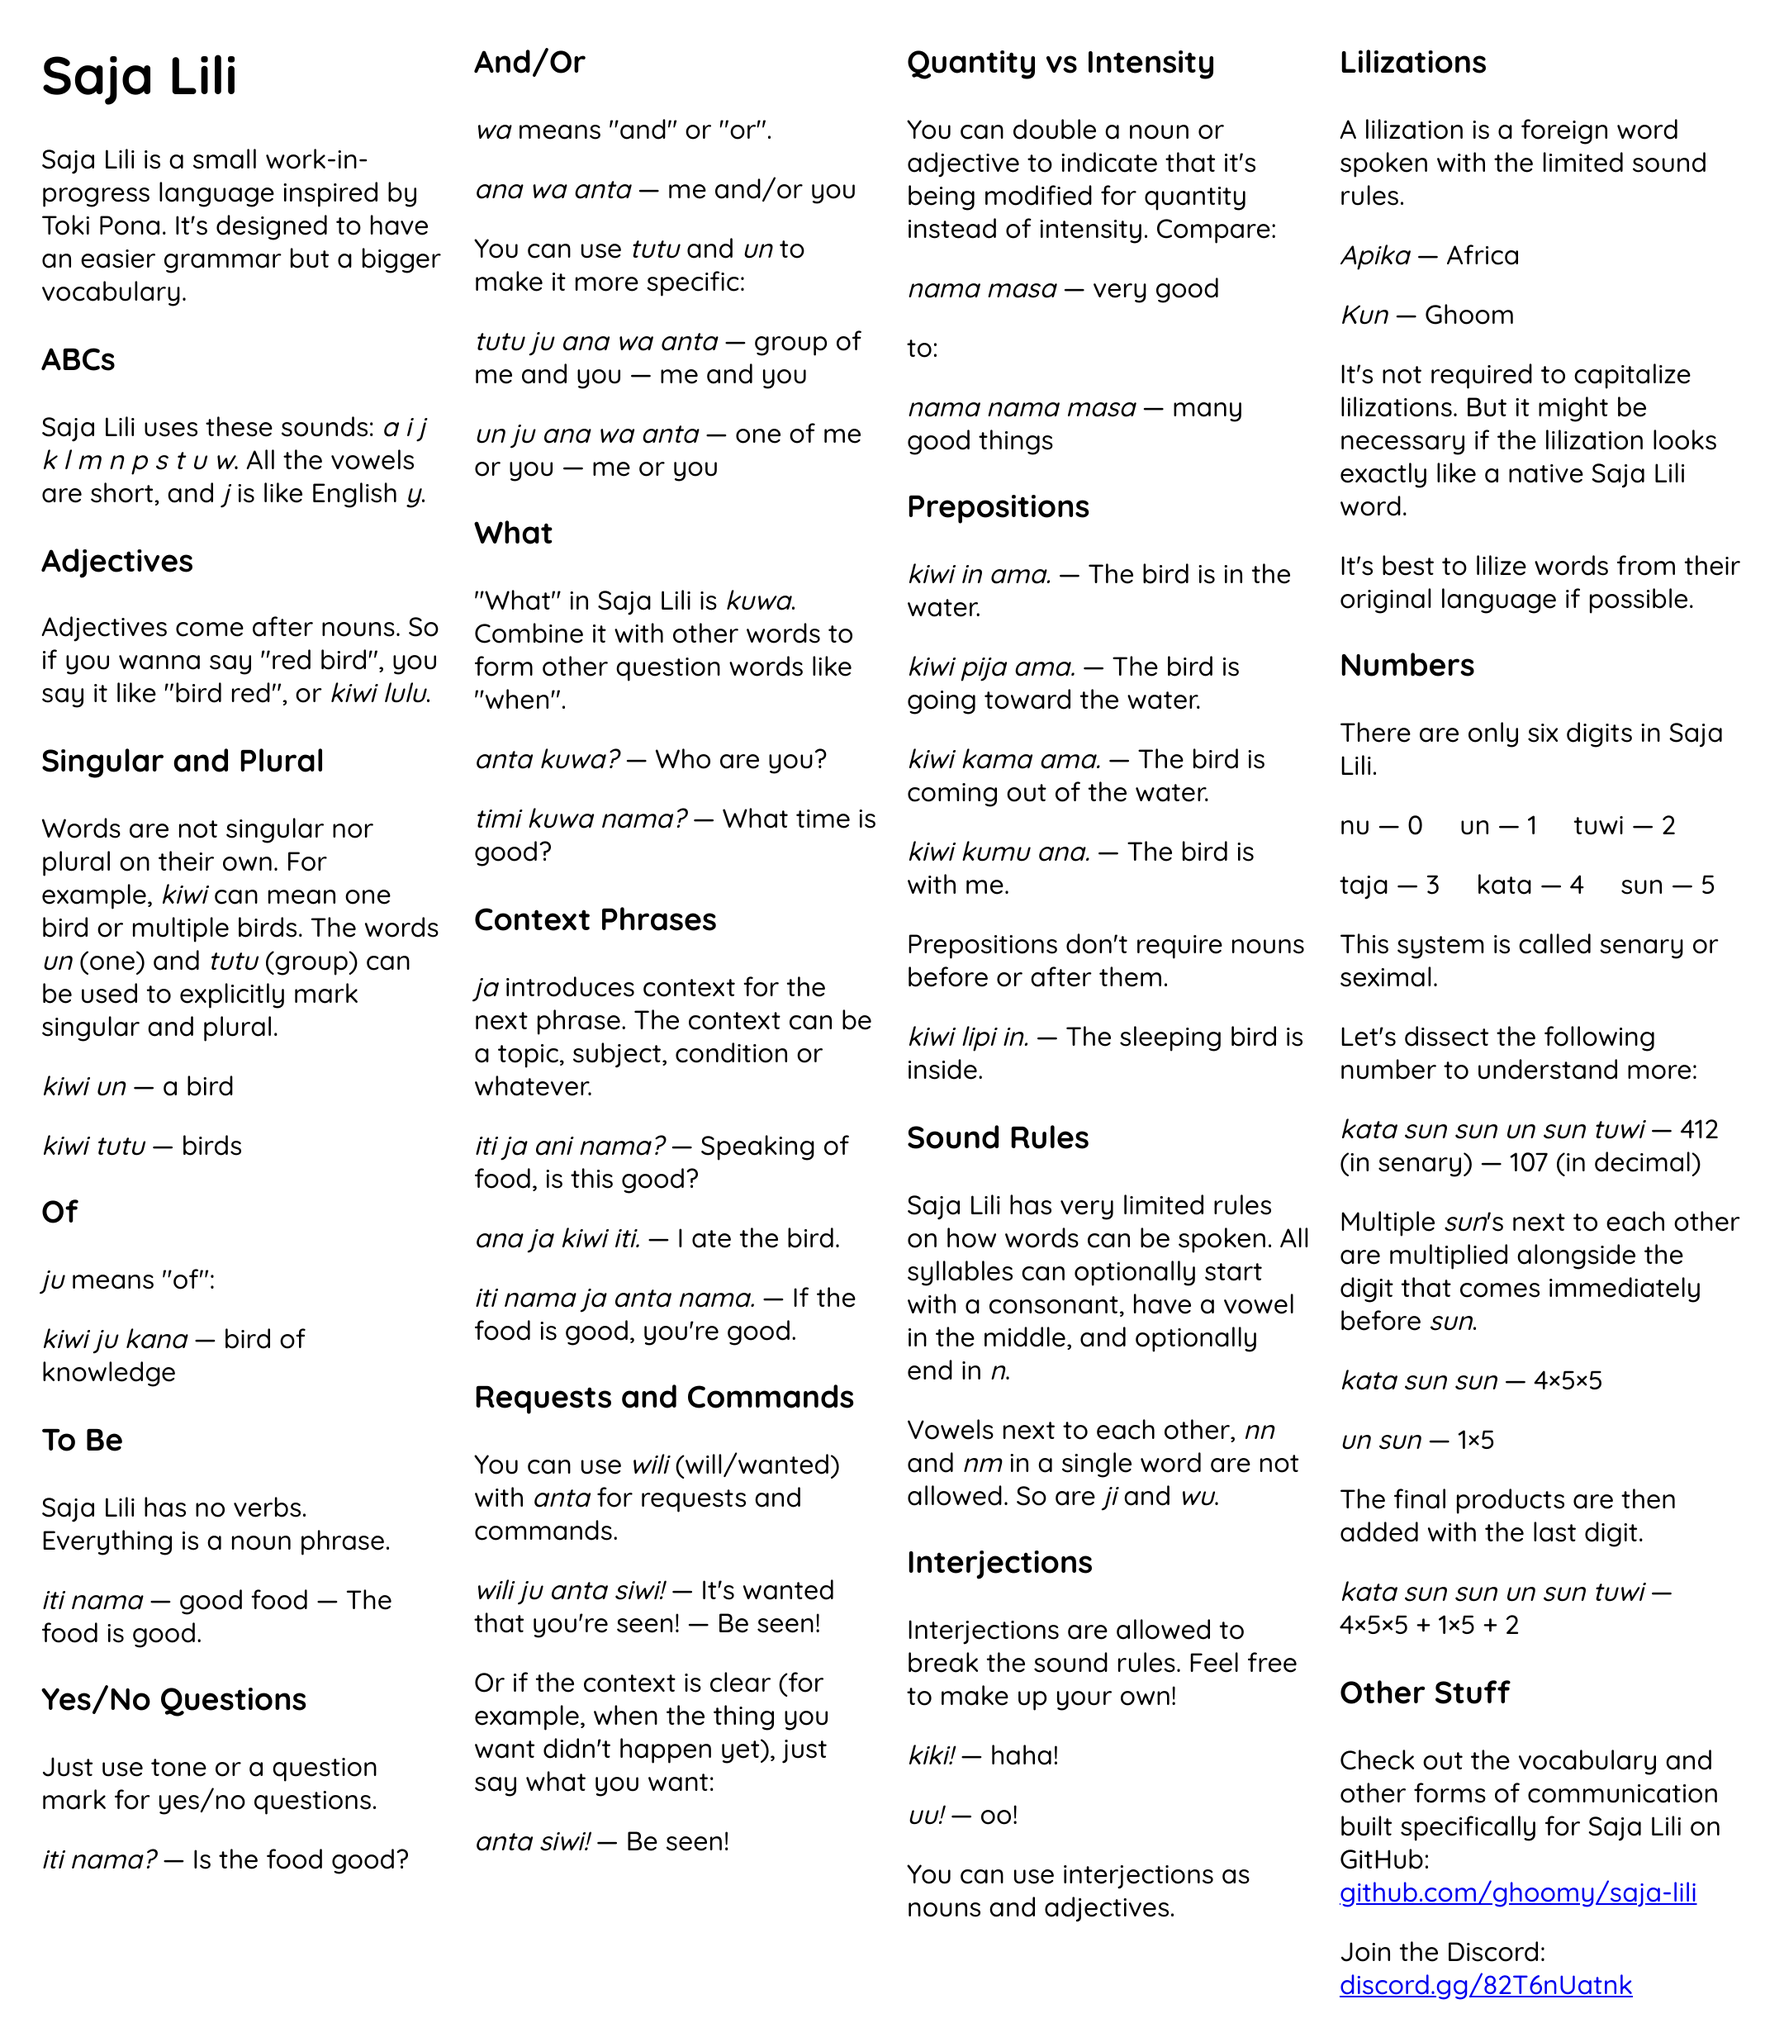
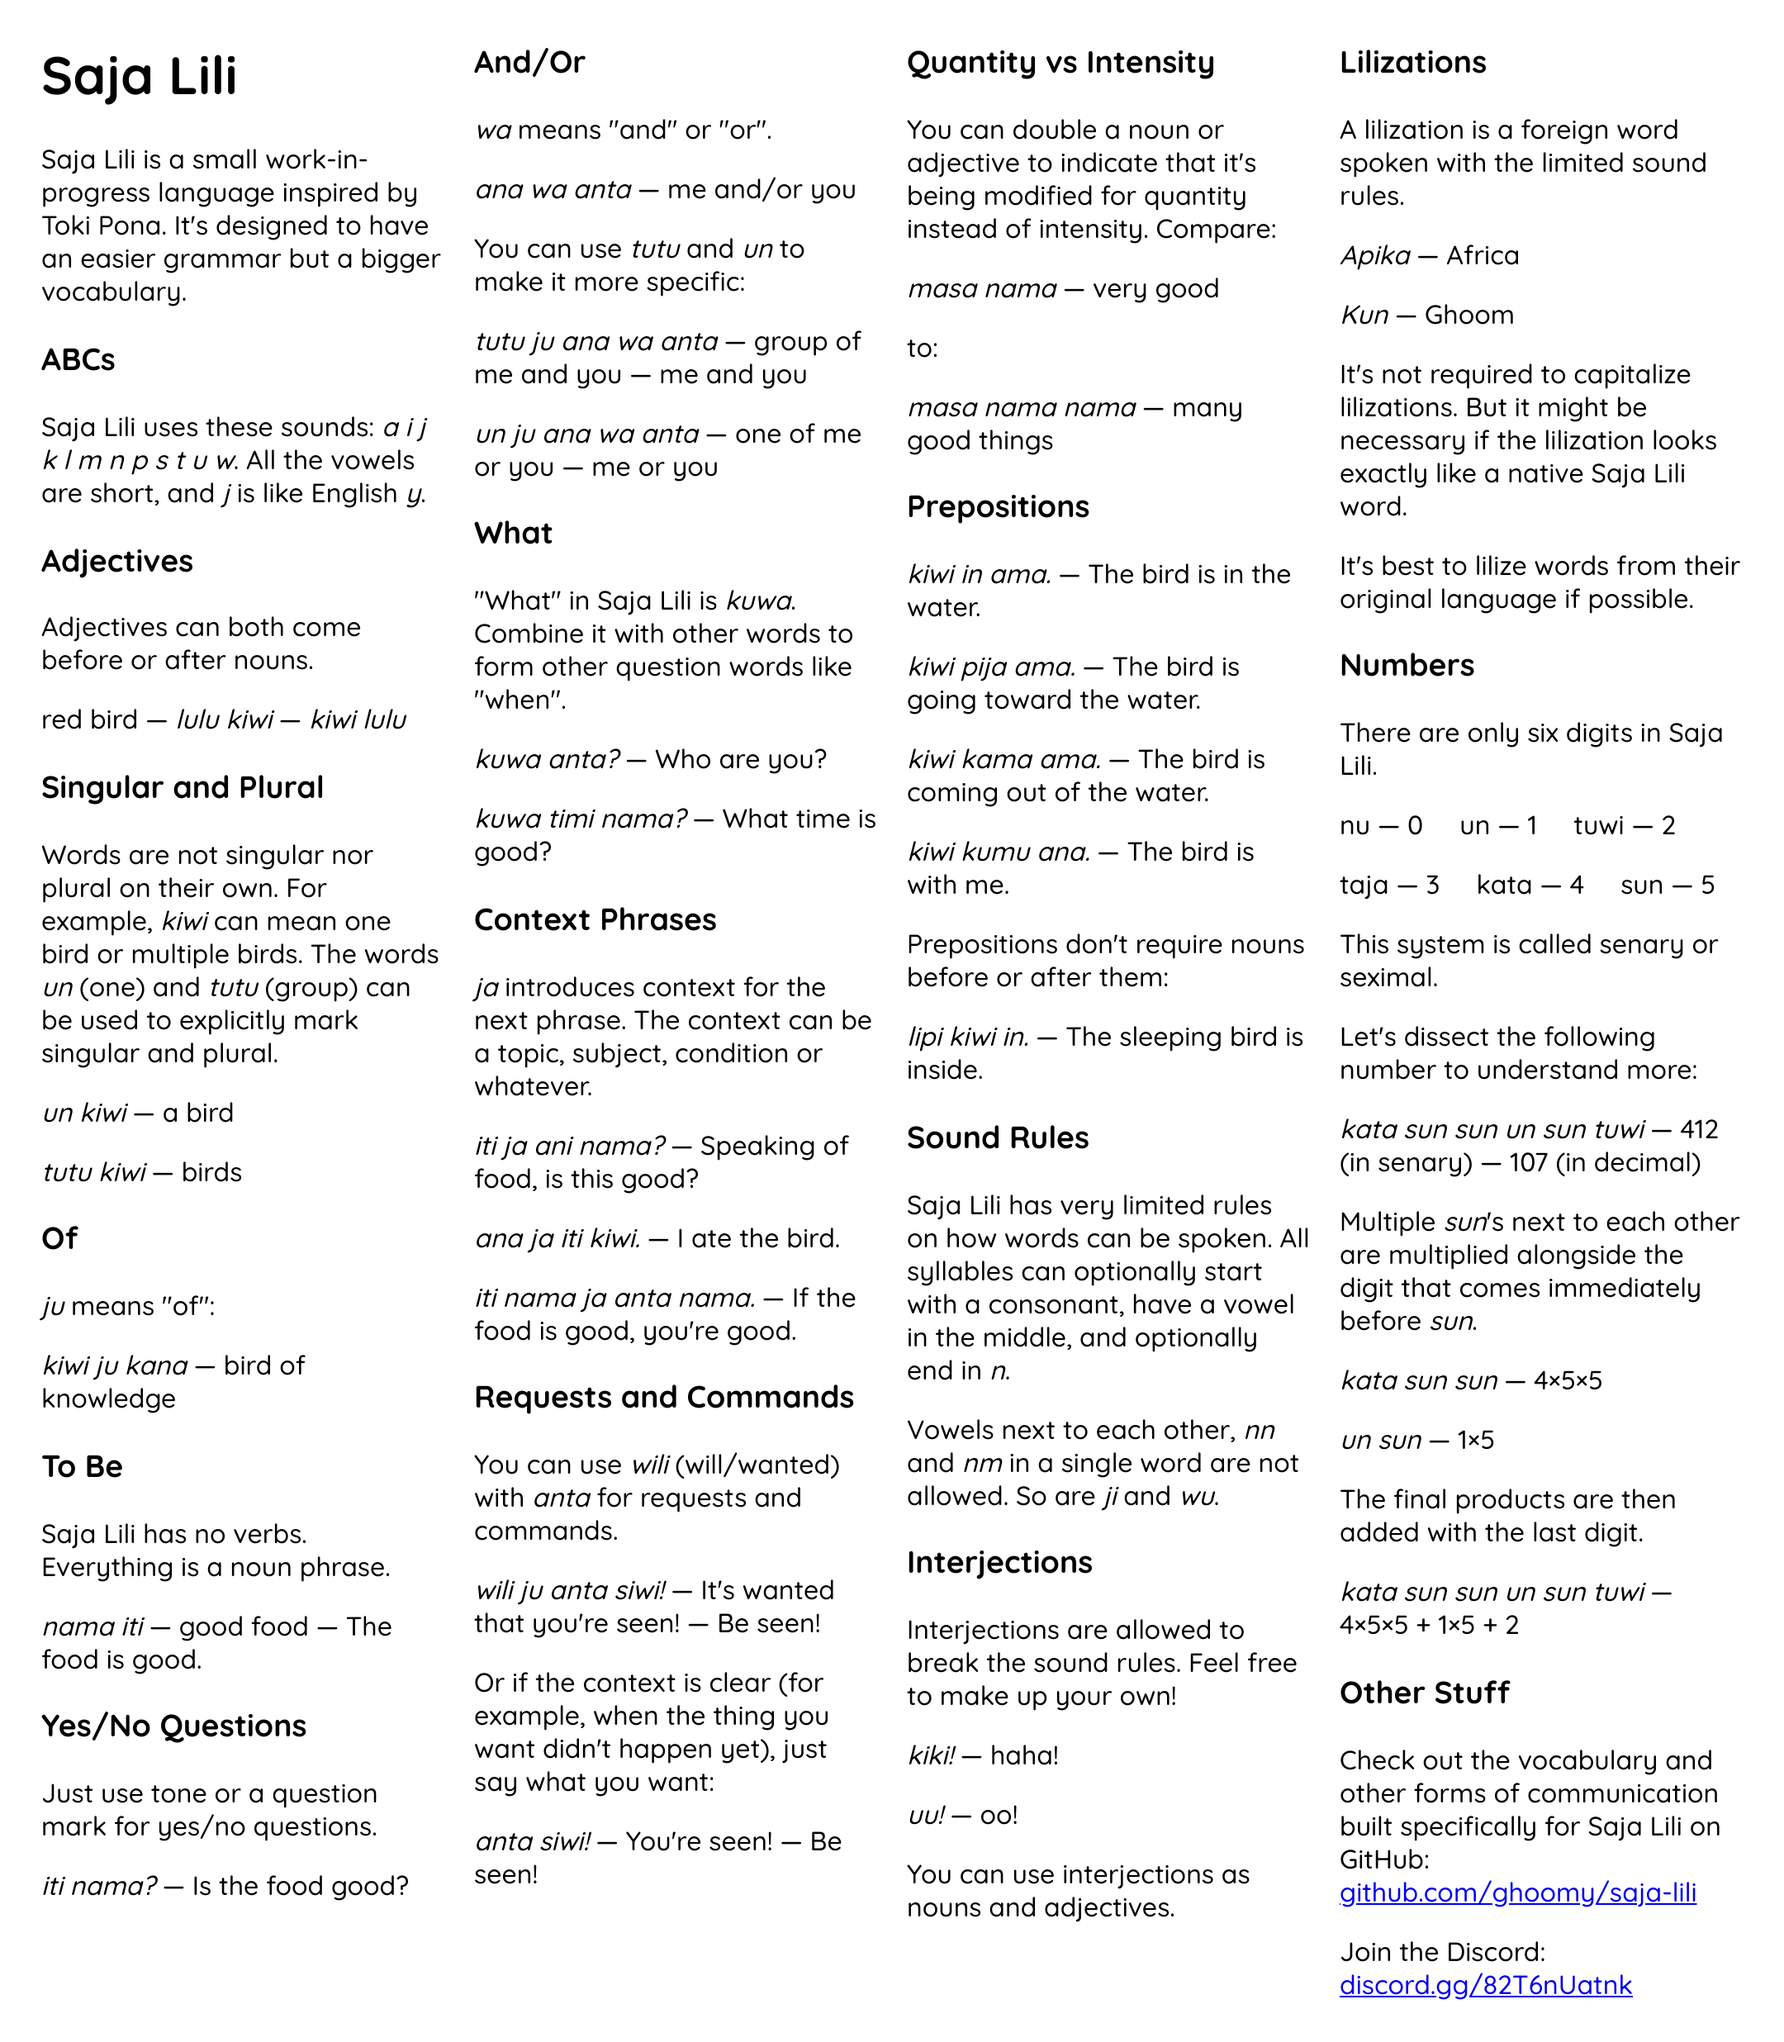
...

diff --git a/README.md b/README.md
@@ -22,15 +22,17 @@ Saja Lili uses these sounds: *a i j k l m n p s t u w*. All the vowels are short
 
 ### Adjectives
 
-Adjectives come after nouns. So if you wanna say "red bird", you say it like "bird red", or *kiwi lulu*.
+Adjectives can both come before or after nouns.
+
+red bird — *lulu kiwi* — *kiwi lulu*
 
 ### Singular and Plural
 
 Words are not singular nor plural on their own. For example, *kiwi* can mean one bird or multiple birds. The words *un* (one) and *tutu* (group) can be used to explicitly mark singular and plural.
 
-*kiwi un* — a bird
+*un kiwi* — a bird
 
-*kiwi tutu* — birds
+*tutu kiwi* — birds
 
 ### Of
 
@@ -42,7 +44,7 @@ Words are not singular nor plural on their own. For example, *kiwi* can mean one
 
 Saja Lili has no verbs. Everything is a noun phrase.
 
-*iti nama* — good food — The food is good.
+*nama iti* — good food — The food is good.
 
 ### Yes/No Questions
 
@@ -69,9 +71,9 @@ You can use *tutu* and *un* to make it more specific:
 
 "What" in Saja Lili is *kuwa*. Combine it with other words to form other question words like "when".
 
-*anta kuwa?* — Who are you?
+*kuwa anta?* — Who are you?
 
-*timi kuwa nama?* — What time is good?
+*kuwa timi nama?* — What time is good?
 
 ### Context Phrases
 
@@ -79,7 +81,7 @@ You can use *tutu* and *un* to make it more specific:
 
 *iti ja ani nama?* — Speaking of food, is this good?
 
-*ana ja kiwi iti.* — I ate the bird.
+*ana ja iti kiwi.* — I ate the bird.
 
 *iti nama ja anta nama.* — If the food is good, you're good.
 
@@ -91,7 +93,7 @@ You can use *wili* (will/wanted) with *anta* for requests and commands.
 
 Or if the context is clear (for example, when the thing you want didn't happen yet), just say what you want:
 
-*anta siwi!* — Be seen!
+*anta siwi!* — You're seen! — Be seen!
 
 <!--/td-->
 <!--td style="width: 100%;"-->
@@ -100,11 +102,11 @@ Or if the context is clear (for example, when the thing you want didn't happen y
 
 You can double a noun or adjective to indicate that it's being modified for quantity instead of intensity. Compare:
 
-*nama masa* — very good
+*masa nama* — very good
 
 to:
 
-*nama nama masa* — many good things
+*masa nama nama* — many good things
 
 ### Prepositions
 
@@ -118,7 +120,7 @@ to:
 
 Prepositions don't require nouns before or after them:
 
-*kiwi lipi in.* — The sleeping bird is inside.
+*lipi kiwi in.* — The sleeping bird is inside.
 
 ### Sound Rules
 
